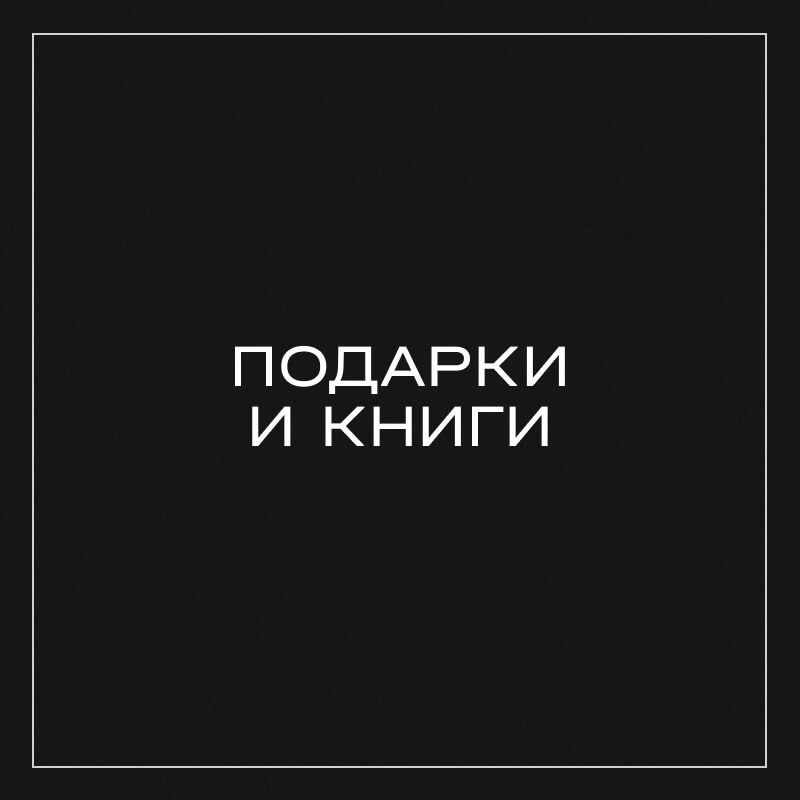
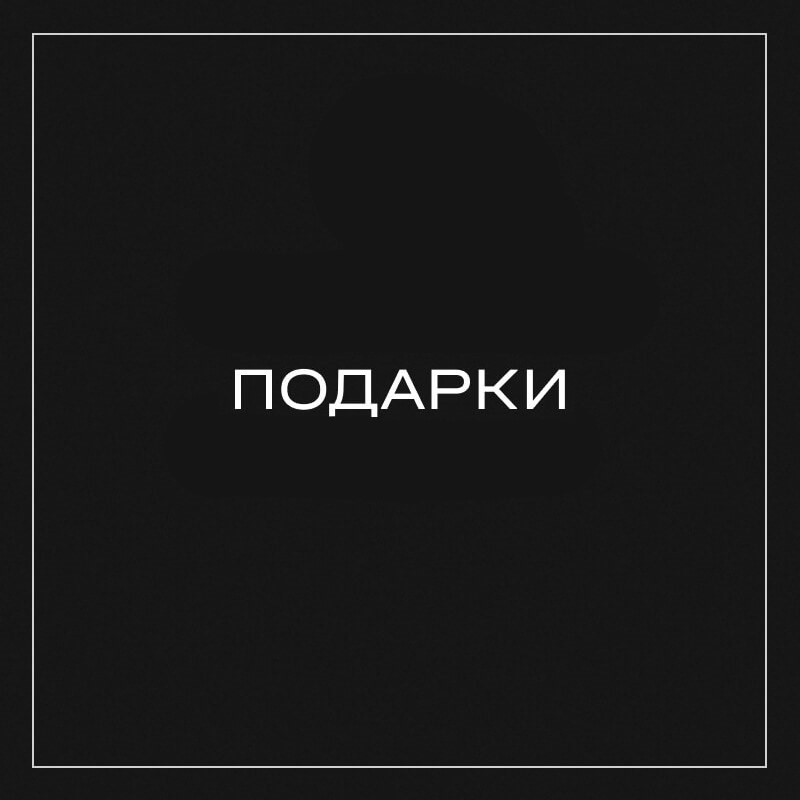
seo гугл 070726

Changed region(s): [[0.2812, 0.4062, 0.7188, 0.5625]]

diff --git a/pages/index.js b/pages/index.js
@@ -1,27 +1,31 @@
 // import ImageLink from '@/components/ImageLink';
-import DocumentsPage from "@/components/DocumentsPage";
-import Layout from "@/components/Layout";
-import MarqueeLogos from "@/components/MarqueeLogos";
+import DocumentsPage from '@/components/DocumentsPage';
+import Layout from '@/components/Layout';
+import MarqueeLogos from '@/components/MarqueeLogos';
 // import MarqueeLogos from '@/components/MarqueeLogos';
-import ShopListMain from "@/components/ShopListMain";
-import SliderMain from "@/components/SliderMain";
-import VideoMain from "@/components/VideoMain";
-import YandexMap from "@/components/YandexMap";
-import { kinoAfisha, shopList, sliderTop } from "@/public/data/data";
-import { arrayNews } from "@/public/data/news";
-import imgShowroom from "@/public/showroom_img/showroomMainResize.png";
-import imgShowroomMob from "@/public/showroom_img/showroomMainResizeMob.png";
-import kinoBanner from "@/public/slide_main/kino-banner-12.jpg";
-import Image from "next/image";
-import Link from "next/link";
-import { FaBus, FaPhoneAlt } from "react-icons/fa";
-import { HiLocationMarker } from "react-icons/hi";
-import { MdEmail } from "react-icons/md";
-import { RiTimeFill } from "react-icons/ri";
+import ShopListMain from '@/components/ShopListMain';
+import SliderMain from '@/components/SliderMain';
+import VideoMain from '@/components/VideoMain';
+import YandexMap from '@/components/YandexMap';
+import { kinoAfisha, shopList, sliderTop } from '@/public/data/data';
+import { arrayNews } from '@/public/data/news';
+import imgShowroom from '@/public/showroom_img/showroomMainResize.png';
+import imgShowroomMob from '@/public/showroom_img/showroomMainResizeMob.png';
+import kinoBanner from '@/public/slide_main/kino-banner-12.jpg';
+import Image from 'next/image';
+import Link from 'next/link';
+import { FaBus, FaPhoneAlt } from 'react-icons/fa';
+import { HiLocationMarker } from 'react-icons/hi';
+import { MdEmail } from 'react-icons/md';
+import { RiTimeFill } from 'react-icons/ri';
 
 export default function Home() {
   return (
-    <Layout title="ГЛАВНАЯ">
+    <Layout
+      title='ТРК "СИТИ ЦЕНТР" Краснодар – Официальный сайт торгово-развлекательного комплекса'
+      description="Официальный сайт торгово-развлекательного комплекса СИТИ ЦЕНТР в Краснодаре. Информация о магазинах, ресторанах, кинотеатре, услугах и аренде помещений."
+      isHome={true} // Добавим флаг, что это главная страница
+    >
       <h1 className="sr-only">
         ТРЦ Сити Центр Краснодар: магазины, рестораны, кинотеатр
       </h1>
@@ -38,7 +42,7 @@ export default function Home() {
       <div className="block sm:hidden">
         {/* <SliderMain data={sliderTopMob} dots={false} /> */}
         <div className="w-full">
-          <VideoMain videoLink={"/slide_main/video_slide_1.mp4"} />
+          <VideoMain videoLink={'/slide_main/video_slide_1.mp4'} />
         </div>
       </div>
 
@@ -91,7 +95,7 @@ export default function Home() {
                   key={id}
                   href="https://kinomonitor.ru/cinemas/111/seances"
                   className="block relative w-full overflow-hidden aspect-[3/5]"
-                  target={"_blank"}
+                  target={'_blank'}
                 >
                   <Image
                     src={img}
@@ -115,7 +119,7 @@ export default function Home() {
         <div className="lg:container mx-auto">
           <Link
             href="https://wa.me/79994120012?text=Добрый%20день.%20Расскажите,%20пожалуйста,%20об%20условиях%20аренды%20кинозала"
-            target={"_blank"}
+            target={'_blank'}
           >
             <Image
               src={kinoBanner}
@@ -186,7 +190,7 @@ export default function Home() {
             </div>
 
             <div className="w-full sm:w-[45%]">
-              <VideoMain videoLink={"/site_img/city_FHD_6.mp4"} />
+              <VideoMain videoLink={'/site_img/city_FHD_6.mp4'} />
             </div>
           </div>
         </div>

diff --git a/public/data/butiks.js b/public/data/butiks.js
@@ -1764,29 +1764,6 @@ export const butiks = [
   },
   {
     id: id++,
-    category: 'services',
-    url: 'ChistoBlisto',
-    logo: '/services/ChistoBlisto/logo.jpg',
-    image: [
-      {
-        id: 1,
-        src: '/butiks/loaderImgSmall.png',
-        alt: 'ChistoBlisto',
-      },
-    ],
-    description1:
-      'Компания Chisto Blisto специализируется на профессиональной реставрации и ремонте кожаных изделий.',
-    description2:
-      'Мы используем качественные материалы, современные технологии и аккуратный ручной труд. Наши мастера бережно восстанавливают обувь, сумки и аксессуары, возвращая им внешний вид и продлевая срок службы.',
-    description3:
-      'Мы ценим доверие клиентов и стремимся к результату, который действительно радует.',
-    floor: '2 этаж',
-    tel: '[phone redacted]',
-    telUrl: '89181916893',
-    instagram: 'https://t.me/chistoblisto_masterskaya',
-  },
-  {
-    id: id++,
     category: 'interior',
     url: 'Togas',
     logo: '/butiks/interior/Togas/logo.png',
@@ -1888,6 +1865,29 @@ export const butiks = [
     telUrl: '88612134700',
     instagram: '',
   },
+  // {
+  //   id: id++,
+  //   category: 'services',
+  //   url: 'ChistoBlisto',
+  //   logo: '/services/ChistoBlisto/logo.jpg',
+  //   image: [
+  //     {
+  //       id: 1,
+  //       src: '/butiks/loaderImgSmall.png',
+  //       alt: 'ChistoBlisto',
+  //     },
+  //   ],
+  //   description1:
+  //     'Компания Chisto Blisto специализируется на профессиональной реставрации и ремонте кожаных изделий.',
+  //   description2:
+  //     'Мы используем качественные материалы, современные технологии и аккуратный ручной труд. Наши мастера бережно восстанавливают обувь, сумки и аксессуары, возвращая им внешний вид и продлевая срок службы.',
+  //   description3:
+  //     'Мы ценим доверие клиентов и стремимся к результату, который действительно радует.',
+  //   floor: '2 этаж',
+  //   tel: '[phone redacted]',
+  //   telUrl: '89181916893',
+  //   instagram: 'https://t.me/chistoblisto_masterskaya',
+  // },
   //Удаленные
   // {
   //   id: id++,

diff --git a/components/Layout.js b/components/Layout.js
@@ -4,13 +4,19 @@ import Footer from './Footer';
 import Header from './Header';
 import CookieBanner from './CookieBanner';
 
-function Layout({ children, title, description }) {
+function Layout({ children, title, description, isHome = false }) {
+  // Логика для формирования Title
+  let finalTitle = 'ТРК "СИТИ ЦЕНТР" Краснодар';
+  if (title) {
+    // Если это главная, берем переданный тайтл целиком.
+    // Если внутренняя (например, "Магазины"), то будет "Магазины - ТРК "СИТИ ЦЕНТР""
+    finalTitle = isHome ? title : `${title} - ТРК "СИТИ ЦЕНТР"`;
+  }
+
   return (
     <div className="min-h-screen flex flex-col justify-start">
       <Head>
-        <title>
-          {title ? title + ' - ТРК "СИТИ ЦЕНТР"' : 'ТРК "СИТИ ЦЕНТР"'}
-        </title>
+        <title>{finalTitle}</title>
         <meta
           name="description"
           content={
@@ -19,6 +25,21 @@ function Layout({ children, title, description }) {
         />
         <meta name="yandex-verification" content="e9baee5e56dc6985" />
         <link rel="icon" href="/favicon-12.ico" />
+
+        {/* Важно для SEO: указывает поисковикам главное зеркало страницы */}
+        {isHome && <link rel="canonical" href="https://www.citycenter.ru/" />}
+
+        {/* Минимальные Open Graph теги для правильного шеринга в Telegram/WhatsApp/VK */}
+        <meta property="og:title" content={finalTitle} />
+        <meta
+          property="og:description"
+          content={description || 'Официальный сайт ТРК "СИТИ ЦЕНТР"'}
+        />
+        <meta
+          property="og:url"
+          content={isHome ? 'https://www.citycenter.ru/' : ''}
+        />
+        <meta property="og:type" content="website" />
       </Head>
       <Header />
       <main className="flex-auto">{children}</main>

diff --git a/next.config.js b/next.config.js
@@ -22,6 +22,20 @@ const nextConfig = {
       },
     ],
   },
+  async headers() {
+    return [
+      {
+        // Находит любой файл, заканчивающийся на .pdf в любой папке
+        source: '/:path*(.pdf)',
+        headers: [
+          {
+            key: 'X-Robots-Tag',
+            value: 'noindex, nofollow',
+          },
+        ],
+      },
+    ];
+  },
   // eslint: {
   //   // Warning: This allows production builds to successfully complete even if
   //   // your project has ESLint errors.